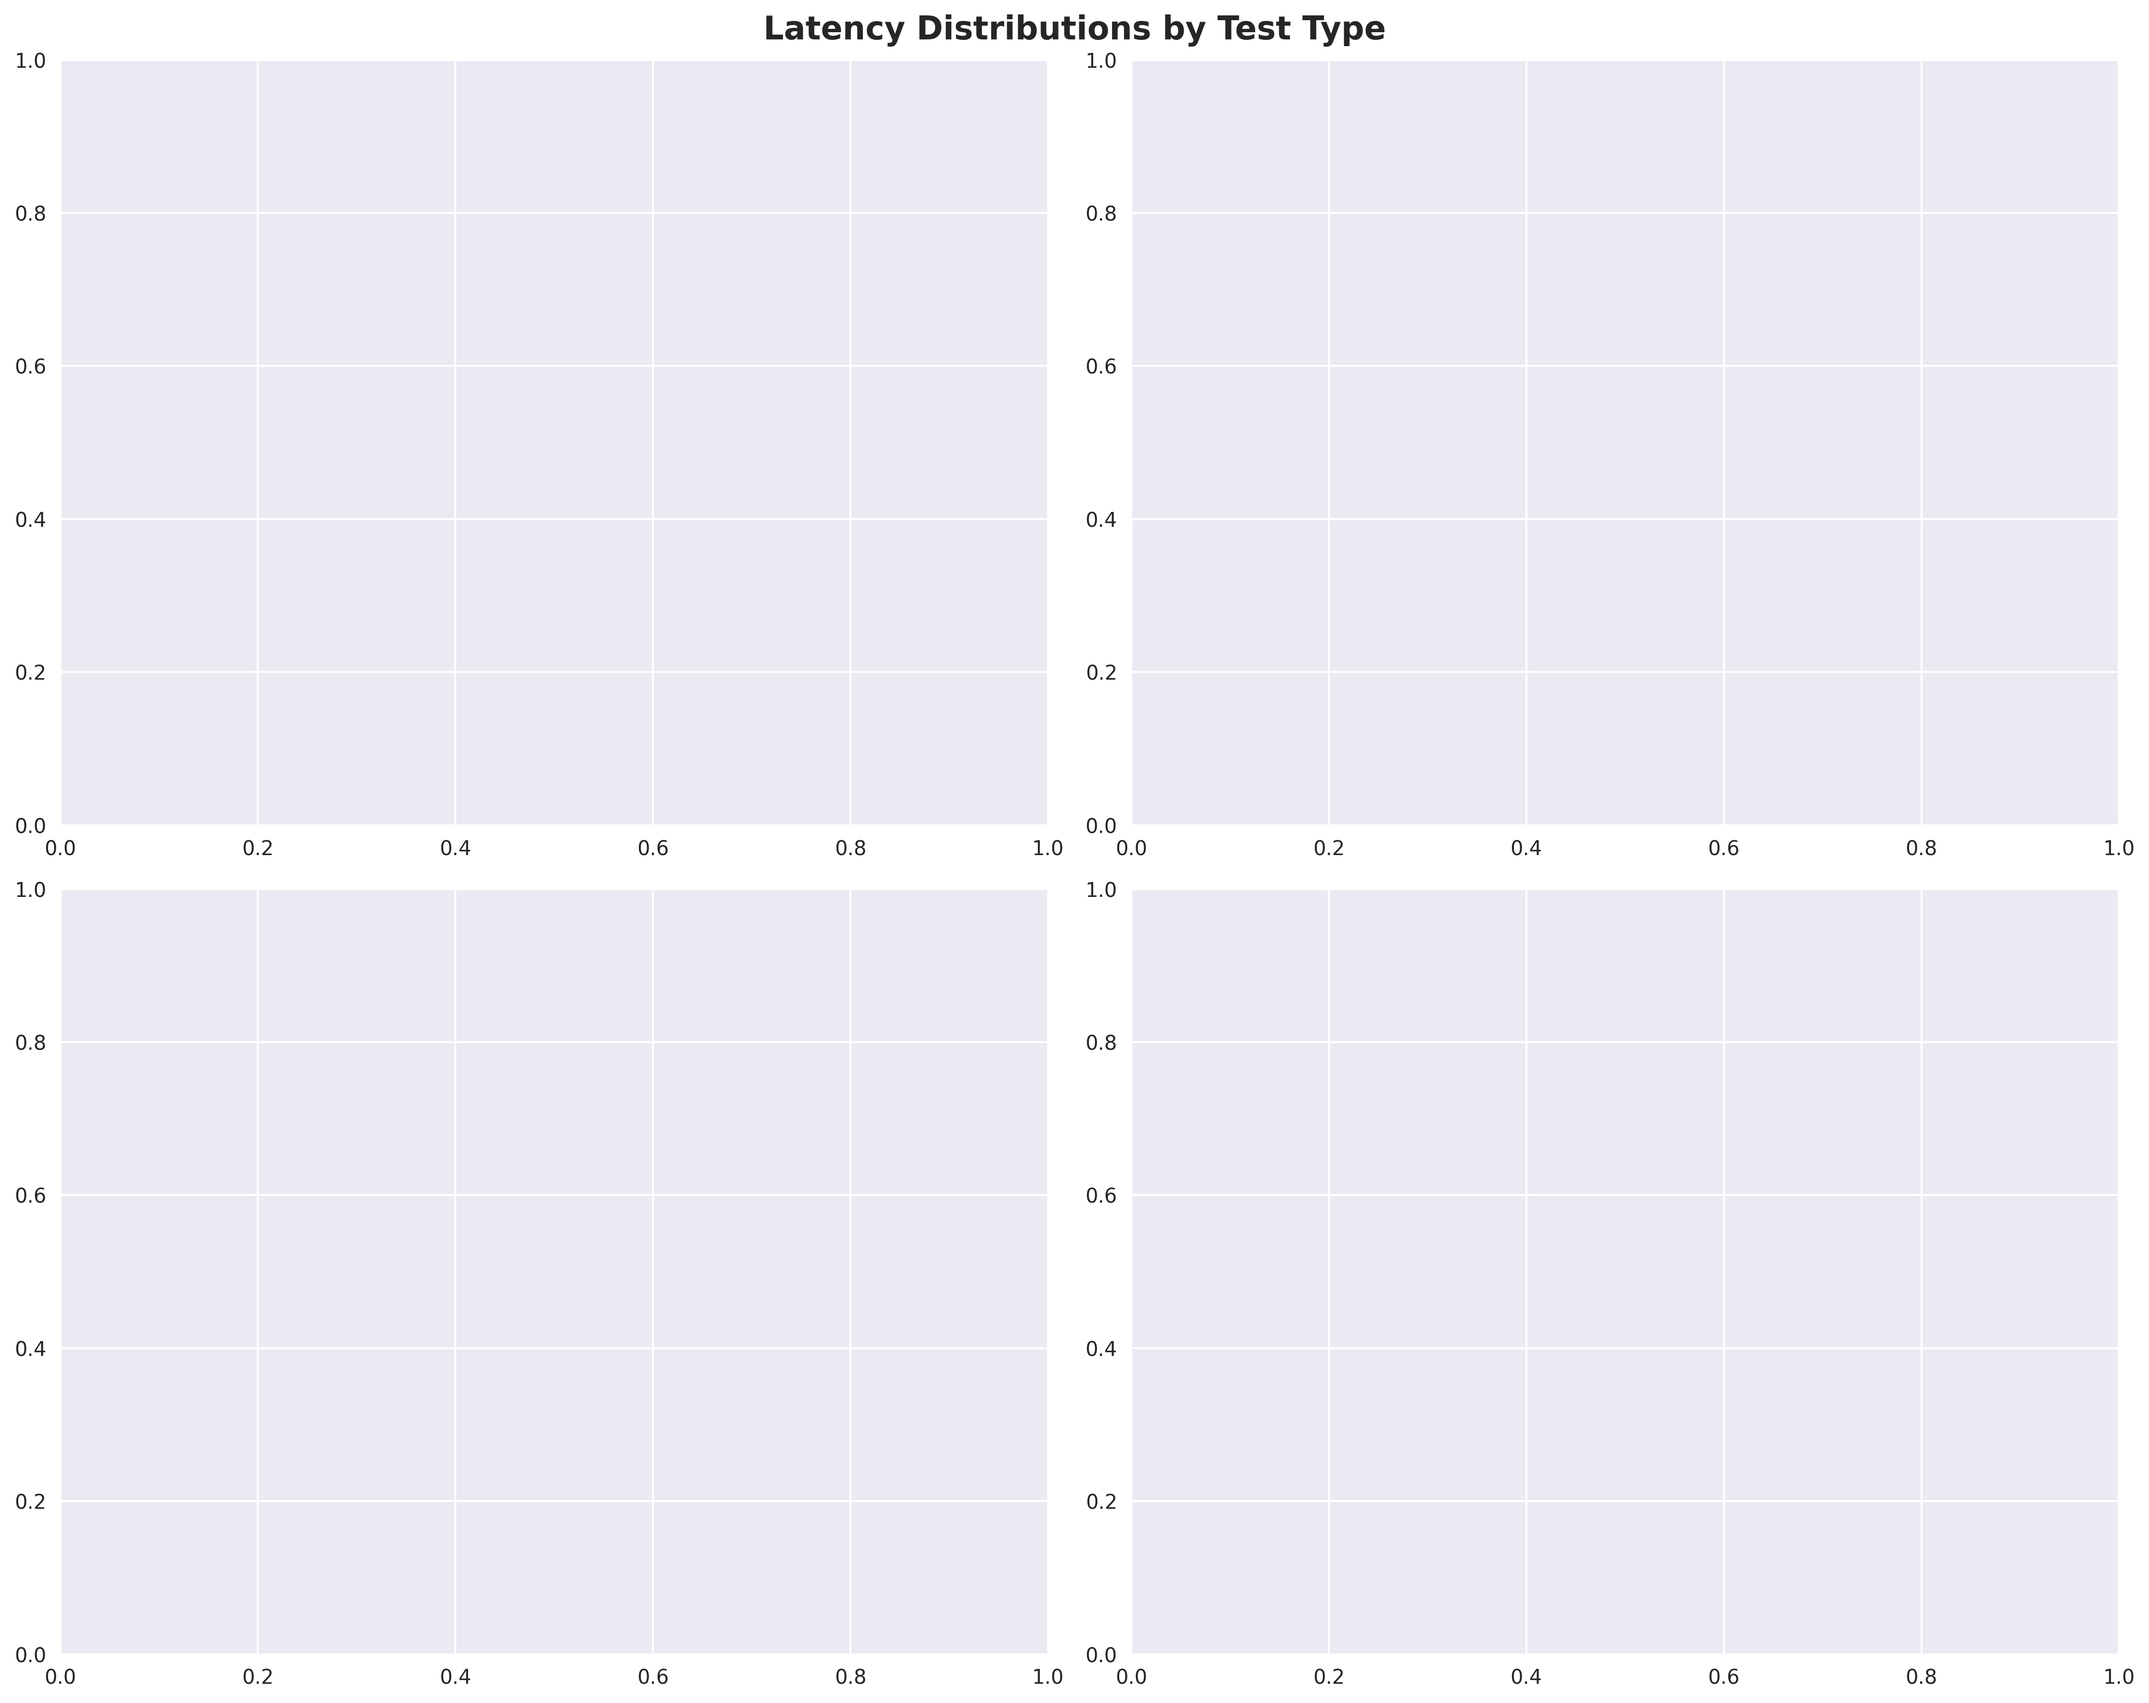
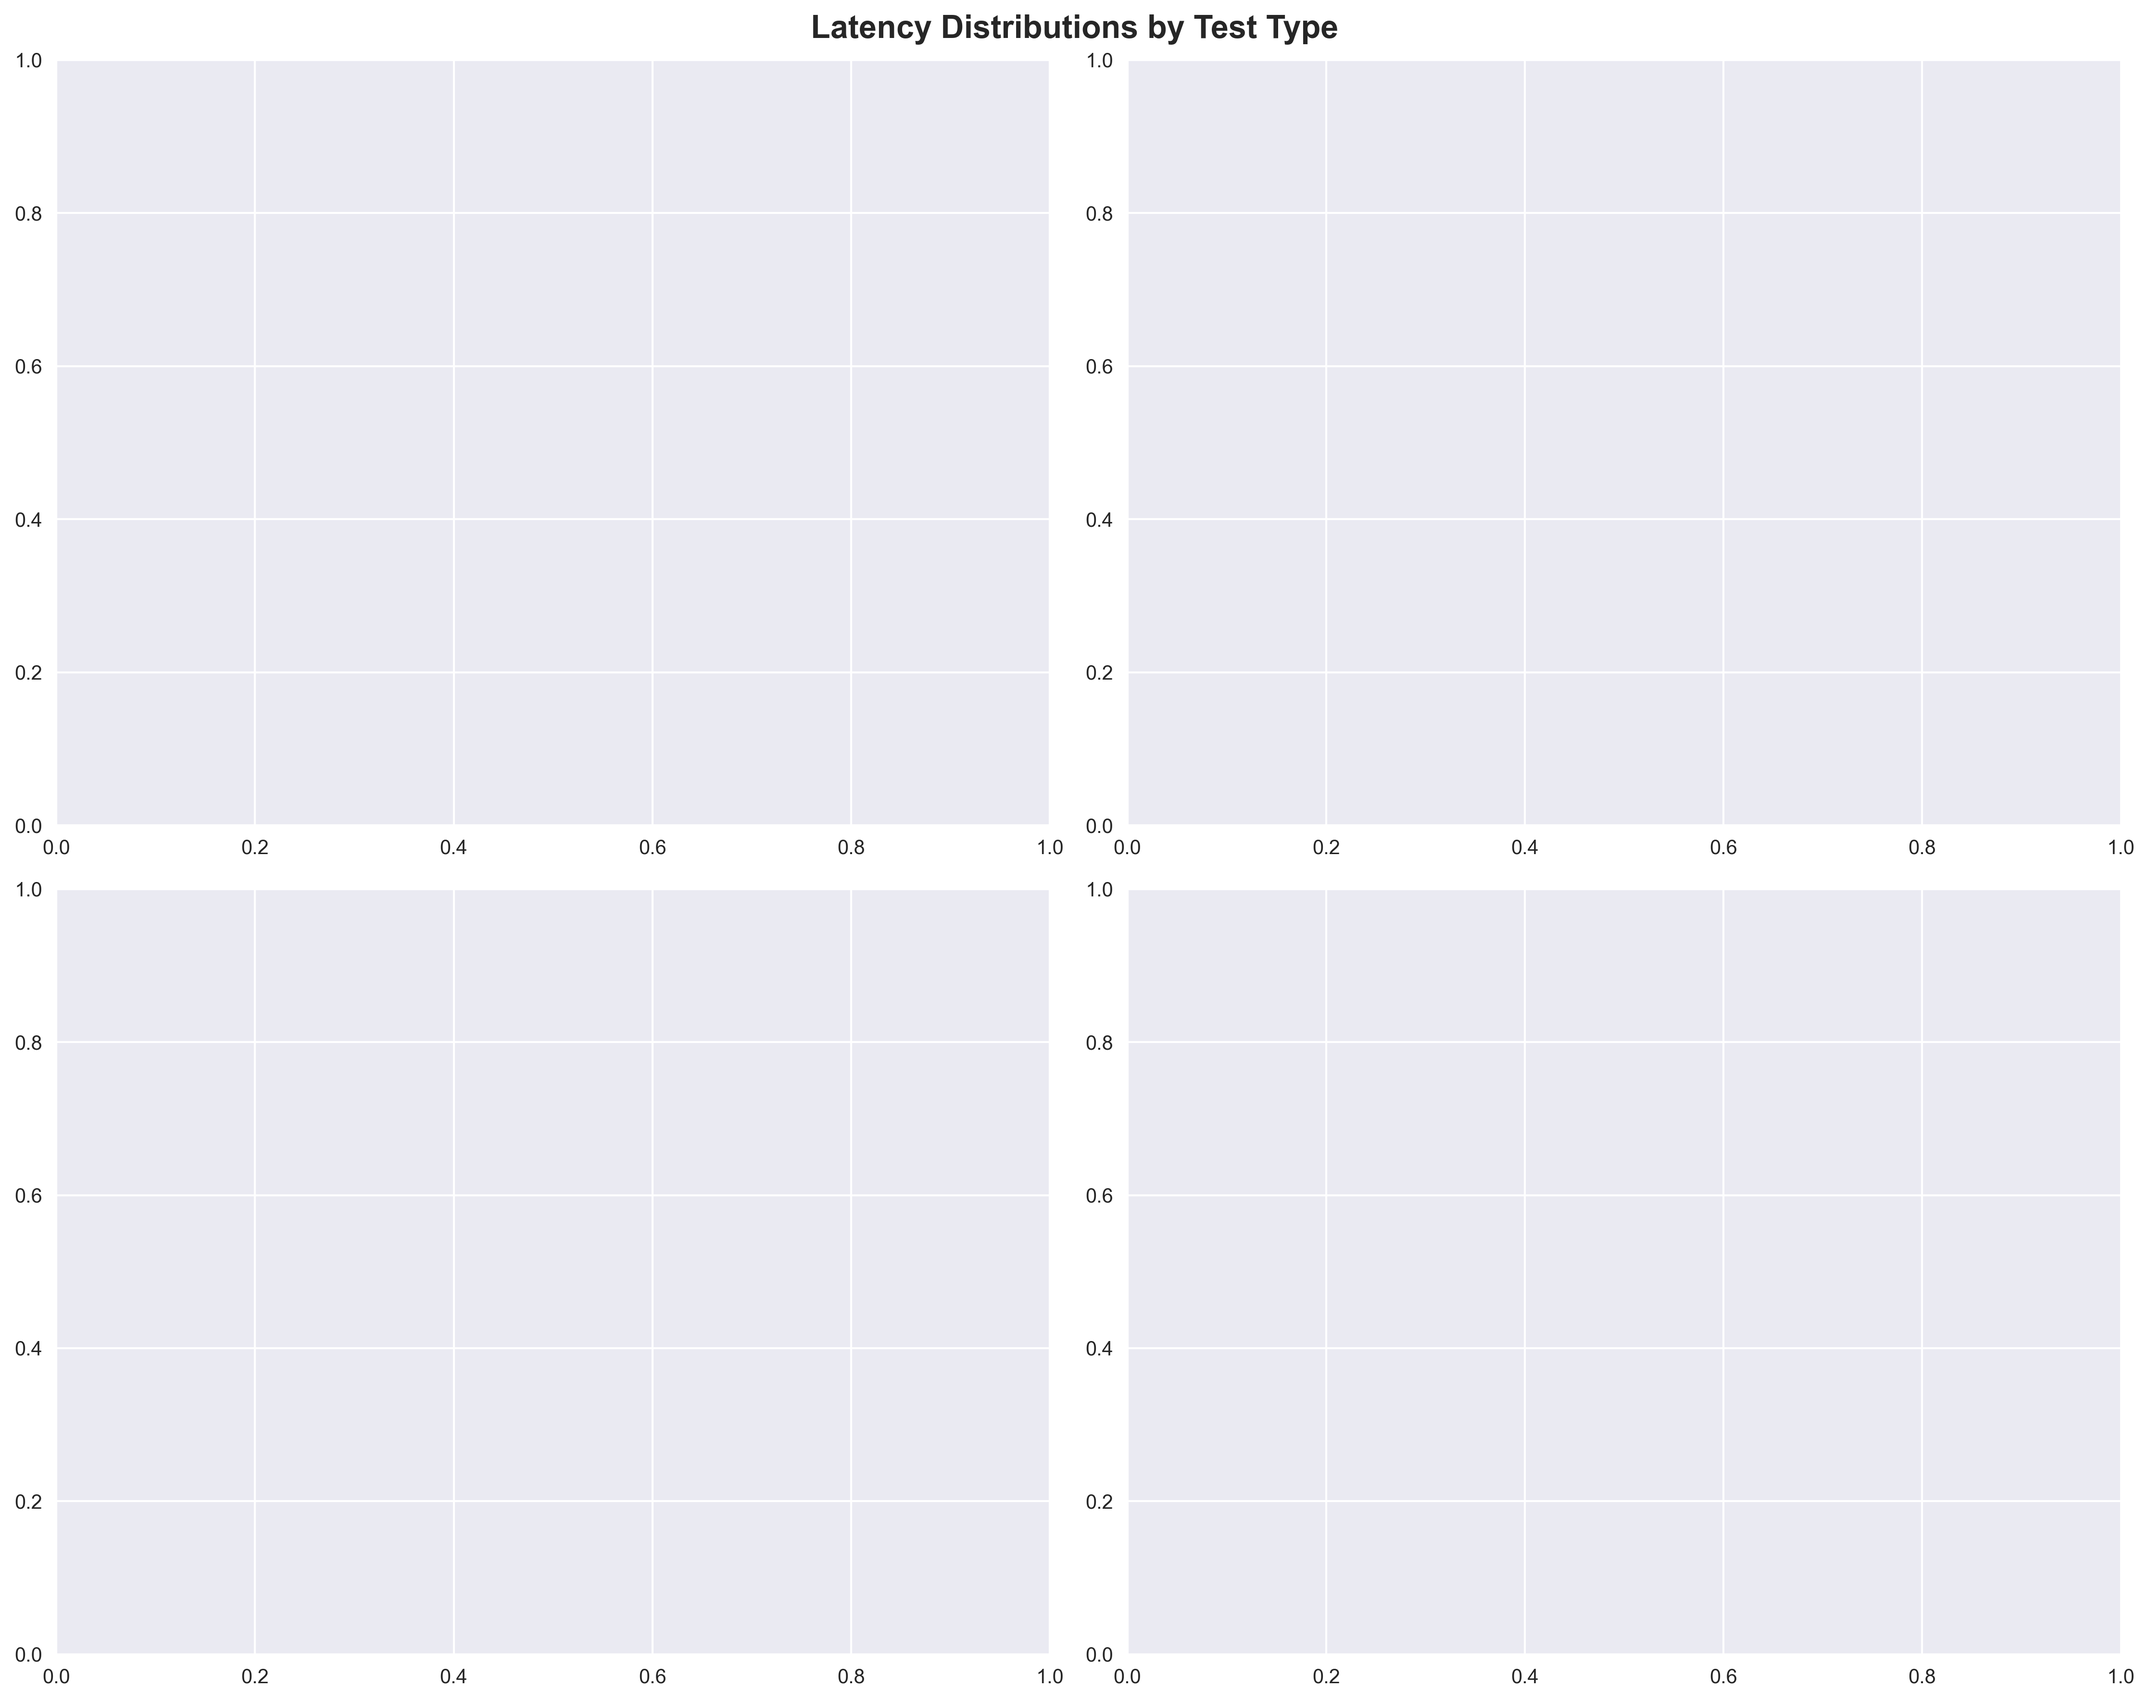
fixes

Changed region(s): [[0.3421, 0.0, 0.6532, 0.0311], [0.4977, 0.9635, 0.5288, 0.9946], [0.0, 0.9635, 0.0311, 0.9946]]

diff --git a/tests_dram_overhead/plot_results.py b/tests_dram_overhead/plot_results.py
@@ -313,6 +313,13 @@ def main():
     df = load_combined_results(results_dir)
     print(f"Loaded {len(df)} data points from {df['test_name'].nunique()} test types")
     
+    if len(df) == 0:
+        print("No test data found. Check that:")
+        print("1. Test scripts completed successfully")
+        print("2. CSV files were generated")
+        print("3. Combined results file exists")
+        sys.exit(1)
+    
     # Generate plots
     print("Generating latency distribution plots...")
     plot_latency_distributions(df, output_dir)
